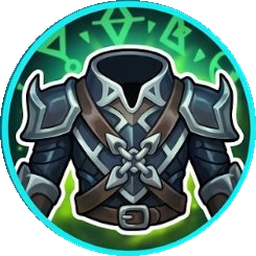
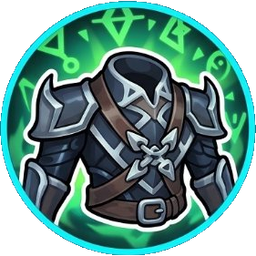
초고열 글라디우스

diff --git a/src/component/battleScreen/augment/AugmentIcon.js b/src/component/battleScreen/augment/AugmentIcon.js
@@ -1083,7 +1083,7 @@ export const AugmentIcon = ({ id, size = 42, pokemon = null, pokemonId = null, s
         </defs>
 
         {/* 베이스 배경 원 */}
-        {id !== "infinityEdge" && id !== "rabadonsDeathcap" && id !== "voidStaff" && id !== "ludensEcho" && id !== "collector" && id !== "practiceMakesCritical" && id !== "thornmail" && id !== "bladeOfTheRuinedKing" && id !== "sunfireAegis" && id !== "warmogsArmor" && id !== "giantAbsorption" && id !== "mejaisSoulstealer" && id !== "lastWarrior" && id !== "lastSamurai" && id !== "lastManStanding" && id !== "wujuStyle" && id !== "soulMinion" && id !== "sacrificeGod" && id !== "highRiskCurse" && id !== "swordAndShield" && id !== "threeBearsHouse" && id !== "threeBears" && id !== "oneBear" && id !== "twoBears" && id !== "threeBearsBuff" && id !== "axeOfDespair" && id !== "powerOfKing" && id !== "threeThousandYears" && id !== "rush" && id !== "growUp" && id !== "spiritVisage" && id !== "geniusOfTransformation" && id !== "butItRefused" && id !== "arcaneShadeSword" && id !== "greatTuskSoul" && id !== "starforce" && id !== "cleanSlateScroll" && id !== "cube" && id !== "choiceAndFocus" && id !== "zeroSumGame" && id !== "furubeYurayura" && id !== "allInDefense" && id !== "limiterRemoval" && id !== "rudePureLove" && id !== "jinanSangae" && id !== "dragonSlayer" && id !== "dragonKiller" && id !== "dragonHunter" && id !== "dragonDie" && id !== "believeInMyself" && id !== "pokemonQuiz" && id !== "pokemonQuizExpert" && id !== "luckyRecovery" && id !== "rampagingPower" && id !== "armorBreak" && id !== "hyperBody" && id !== "haste" && id !== "sharpEyes" && id !== "mapleWarrior" && id !== "powerStrike" && id !== "dragonRoar" && id !== "berserk" && id !== "ironWall" && id !== "sanctuary" && id !== "symphonyFor100Metronomes" && id !== "nothingHappened" && id !== "airmanGaTaosenai" && <circle cx="32" cy="32" r="30" fill="url(#bgGlow)" stroke="url(#prismRing)" strokeWidth="1.5" strokeOpacity="0.7" />}
+        {id !== "infinityEdge" && id !== "rabadonsDeathcap" && id !== "voidStaff" && id !== "ludensEcho" && id !== "collector" && id !== "practiceMakesCritical" && id !== "thornmail" && id !== "bladeOfTheRuinedKing" && id !== "sunfireAegis" && id !== "warmogsArmor" && id !== "giantAbsorption" && id !== "mejaisSoulstealer" && id !== "lastWarrior" && id !== "lastSamurai" && id !== "lastManStanding" && id !== "wujuStyle" && id !== "soulMinion" && id !== "sacrificeGod" && id !== "highRiskCurse" && id !== "swordAndShield" && id !== "threeBearsHouse" && id !== "threeBears" && id !== "oneBear" && id !== "twoBears" && id !== "threeBearsBuff" && id !== "axeOfDespair" && id !== "powerOfKing" && id !== "threeThousandYears" && id !== "rush" && id !== "growUp" && id !== "spiritVisage" && id !== "geniusOfTransformation" && id !== "butItRefused" && id !== "arcaneShadeSword" && id !== "greatTuskSoul" && id !== "starforce" && id !== "cleanSlateScroll" && id !== "cube" && id !== "choiceAndFocus" && id !== "zeroSumGame" && id !== "furubeYurayura" && id !== "allInDefense" && id !== "limiterRemoval" && id !== "rudePureLove" && id !== "jinanSangae" && id !== "dragonSlayer" && id !== "dragonKiller" && id !== "dragonHunter" && id !== "dragonDie" && id !== "believeInMyself" && id !== "pokemonQuiz" && id !== "pokemonQuizExpert" && id !== "luckyRecovery" && id !== "rampagingPower" && id !== "armorBreak" && id !== "hyperBody" && id !== "haste" && id !== "sharpEyes" && id !== "mapleWarrior" && id !== "powerStrike" && id !== "dragonRoar" && id !== "berserk" && id !== "ironWall" && id !== "sanctuary" && id !== "symphonyFor100Metronomes" && id !== "nothingHappened" && id !== "airmanGaTaosenai" && id !== "flamingKatana" && id !== "sunfireCape" && id !== "superheatedGladius" && <circle cx="32" cy="32" r="30" fill="url(#bgGlow)" stroke="url(#prismRing)" strokeWidth="1.5" strokeOpacity="0.7" />}
         {id === "highRiskCurse" && <circle cx="32" cy="32" r="30" fill="url(#banDarkBg)" stroke="url(#banRedGrad)" strokeWidth="1.6" strokeOpacity="0.9" />}
 
         {/* 최후의 전사 (원본 일러스트 이미지 + 원형 클리핑 & 라임-에메랄드 링 테두리) */}
@@ -4267,6 +4267,25 @@ export const AugmentIcon = ({ id, size = 42, pokemon = null, pokemonId = null, s
             <circle cx="32" cy="32" r="28.2" fill="none" stroke="#bae6fd" strokeWidth="0.5" strokeOpacity="0.65" />
           </g>
         )}
+
+        {/* 사라만도라 (일러스트 이미지 + 원형 클리핑 & 레드 링) */}
+        {id === "salamandra" && (
+          <g clipPath="url(#lwClip)">
+            <circle cx="32" cy="32" r="30" fill="#0f172a" />
+            <image href="/pokemon/img/augment/salamandra.png" xlinkHref="/pokemon/img/augment/salamandra.png" x="-18" y="-17" width="100" height="100" preserveAspectRatio="xMidYMid slice" />
+            <circle cx="32" cy="32" r="29.5" fill="none" stroke="#ef4444" strokeWidth="1.8" />
+            <circle cx="32" cy="32" r="28.2" fill="none" stroke="#f87171" strokeWidth="0.5" strokeOpacity="0.65" />
+          </g>
+        )}
+
+        {/* 화염의 카타나 */}
+        {id === "flamingKatana" && <image href="/pokemon/img/augment/flamingKatana.png" x="-2" y="-2" width="68" height="68" />}
+
+        {/* 태양불꽃망토 */}
+        {id === "sunfireCape" && <image href="/pokemon/img/augment/sunfireCape.png" x="-2" y="-2" width="68" height="68" />}
+
+        {/* 초고열 글라디우스 */}
+        {id === "superheatedGladius" && <image href="/pokemon/img/augment/superheatedGladius.png" x="-2" y="-2" width="68" height="68" />}
 
         {/* 28. 달팽이 세마리 */}
         {id === "threeSnails" && (

diff --git a/src/entity/Augment/AugmentData.js b/src/entity/Augment/AugmentData.js
@@ -246,6 +246,39 @@ export const getArcaneSwordData = (pokemon = null, source = null, options = null
 export const AUGMENT_LIST = [
   // 단순 구현 ==========================================================
   {
+    id: "superheatedGladius",
+    name: "초고열 글라디우스",
+    desc: "공격 시 상대에게 화상을 입힙니다.",
+    synergy: true,
+    isRandom: false,
+    weight: "-",
+    // SkillEffect.js에 구현
+  },
+  {
+    id: "sunfireCape",
+    name: "태양불꽃망토",
+    desc: "피격 시 10% 확률로 적에게 화상을 입힙니다.\n불꽃타입 포켓몬일 경우 방어와 특수방어가 추가로 70 증가합니다.",
+    cost: 2,
+    weight: 100,
+    // getStat.js, onHit.js에 구현
+  },
+  {
+    id: "flamingKatana",
+    name: "화염의 카타나",
+    desc: `공격: +65 특공: +40 스피드: +17\n공격 시 50% 확률로 적 또는 자신이 화상을 입습니다.`,
+    cost: 2,
+    weight: 100,
+    // getStat.js, SkillEffect.js에 구현
+  },
+  {
+    id: "salamandra",
+    name: "사라만도라",
+    desc: "공격 시 30% 확률로 적에게 화상을 입힙니다.\n불꽃타입 포켓몬일 경우 공격과 특수공격이 추가로 70 증가합니다.",
+    cost: 2,
+    weight: 100,
+    // getStat.js, SkillEffect.js에 구현
+  },
+  {
     id: "giantSoldierOfStone",
     name: "암석거인",
     desc: "모든 아군 바위타입 포켓몬의 방어와 특수방어가 200 증가합니다.",
@@ -3225,9 +3258,16 @@ export const AUGMENT_SYNERGY_MAP = {
   symphonyFor100Metronomes: ["metronome", "doubleMetronome", "tripleMetronome"], // 100개의 메트로놈을 위한 교향시
   airmanGaTaosenai: ["mandoocornEndure", "butItRefused", "nothingHappened"], // 에어맨이 쓰러지지 않아: [슬프게 하지 않게 하려고 버텼다!, 하지만 버텨냈다., 아무일도 없었다...!]
   millenniumShield: ["holyElfBlessing", "giantSoldierOfStone", "waterOmotics"], // 천년 방패: [홀리엘프의 축복, 암석거인, 물의 조종자]
+  superheatedGladius: ["salamandra", "flamingKatana", "sunfireCape"], // 초고열 글라디우스: [사라만도라, 화염의 카타나, 태양불꽃망토]
 };
 
 const SYNERGY_INFO_MAP = {
+  superheatedGladius: {
+    emoji: "🔥",
+    theme: "초고열 글라디우스",
+    title: "초고열 글라디우스",
+    desc: "공격 시 상대에게 화상을 입힙니다.",
+  },
   millenniumShield: {
     emoji: "🛡",
     theme: "천년 방패",

diff --git a/src/entity/Skill/SkillEffect.js b/src/entity/Skill/SkillEffect.js
@@ -115,6 +115,40 @@ function skillEffectSearch(name) {
         }
       }
 
+      // [버프: 초고열 글라디우스] 공격 시 상대에게 화상을 입힘
+      const hasSuperheatedGladius = atkPokemon?.hasAugment?.("superheatedGladius");
+      if (hasSuperheatedGladius && def && !def.faint && (def.hp === undefined || def.hp > 0)) {
+        if (skill && (skill.stype === "atk" || skill.stype === "catk") && !isTargetSubstituteBlocked(battle)) {
+          applyAilment("화상", battle, battle.turn.def, enqueue, `[버프 초고열 글라디우스] ${def.names("는")} 화상을 입었다!`);
+        }
+      }
+
+      // [증강: 사라만도라] 공격 시 30% 확률로 적에게 화상을 입힘
+      const hasSalamandra = atkPokemon?.hasAugment?.("salamandra");
+      if (hasSalamandra && def && !def.faint && (def.hp === undefined || def.hp > 0)) {
+        if (skill && (skill.stype === "atk" || skill.stype === "catk") && !isTargetSubstituteBlocked(battle)) {
+          if (Math.random() < 0.3) {
+            applyAilment("화상", battle, battle.turn.def, enqueue, `[증강 사라만도라] ${def.names("는")} 화상을 입었다!`);
+          }
+        }
+      }
+
+      // [증강: 화염의 카타나] 공격 시 50% 확률로 적 또는 자신이 화상을 입음
+      const hasFlamingKatana = atkPokemon?.hasAugment?.("flamingKatana");
+      if (hasFlamingKatana && skill && (skill.stype === "atk" || skill.stype === "catk")) {
+        if (Math.random() < 0.5) {
+          if (Math.random() < 0.5) {
+            if (def && !def.faint && (def.hp === undefined || def.hp > 0) && !isTargetSubstituteBlocked(battle)) {
+              applyAilment("화상", battle, battle.turn.def, enqueue, `[증강 화염의 카타나] ${def.names("는")} 화상을 입었다!`);
+            }
+          } else {
+            if (!atkPokemon.faint && (atkPokemon.hp === undefined || atkPokemon.hp > 0)) {
+              applyAilment("화상", battle, battle.turn.atk, enqueue, `[증강 화염의 카타나] ${atkPokemon.names("는")} 화상을 입었다!`);
+            }
+          }
+        }
+      }
+
       if (atkPokemon.item === "생명의구슬") {
         if (skill.stype === "atk" || skill.stype === "catk") {
           const text = atkPokemon.name + "의 생명이 조금 깎였다!";

diff --git a/src/calc/getStat.js b/src/calc/getStat.js
@@ -123,6 +123,23 @@ export const getAugmentedStat = (pokemon, statKey, battle = null) => {
     } else if (augId === "holyElfBlessing" && (statKey === "def" || statKey === "cdef")) {
       val += 200;
       logText += ` + 200 (홀리엘프)`;
+    } else if (augId === "salamandra" && (pokemon?.type1 === "불꽃" || pokemon?.type2 === "불꽃") && (statKey === "atk" || statKey === "catk")) {
+      val += 70;
+      logText += ` + 70 (사라만도라)`;
+    } else if (augId === "flamingKatana") {
+      if (statKey === "atk") {
+        val += 65;
+        logText += ` + 65 (화염의 카타나)`;
+      } else if (statKey === "catk") {
+        val += 40;
+        logText += ` + 40 (화염의 카타나)`;
+      } else if (statKey === "speed") {
+        val += 17;
+        logText += ` + 17 (화염의 카타나)`;
+      }
+    } else if (augId === "sunfireCape" && (pokemon?.type1 === "불꽃" || pokemon?.type2 === "불꽃") && (statKey === "def" || statKey === "cdef")) {
+      val += 70;
+      logText += ` + 70 (태양불꽃망토)`;
     }
   }
 

diff --git a/src/service/onHit.js b/src/service/onHit.js
@@ -158,4 +158,10 @@ export const applyOnHitEvents = (battle, enqueue, substitute, isDisguiseHit = fa
     const text = "[증강 가시갑옷] " + atkPokemon.names("는") + " 가시갑옷 때문에 데미지를 입었다!";
     atkPokemon.getDamage(battle, enqueue, atkMaxHp / 8, text);
   }
+  // [증강] 태양불꽃망토: 공격을 받을 때 10% 확률로 적에게 화상을 입힌다
+  if (defPokemon.hasAugment?.("sunfireCape") && !atkPokemon.faint) {
+    if (random(10)) {
+      applyAilment("화상", battle, battle.turn.atk, enqueue, `[증강 태양불꽃망토] ${atkPokemon.names("는")} 화상을 입었다!`);
+    }
+  }
 };

diff --git a/src/component/battleScreen/augment/AugmentSynergyPreviewModal.js b/src/component/battleScreen/augment/AugmentSynergyPreviewModal.js
@@ -389,6 +389,7 @@ const AugDesc = styled.p`
   font-size: 0.74rem;
   color: #94a3b8;
   line-height: 1.35;
+  white-space: pre-wrap;
   word-break: keep-all;
 `;
 
